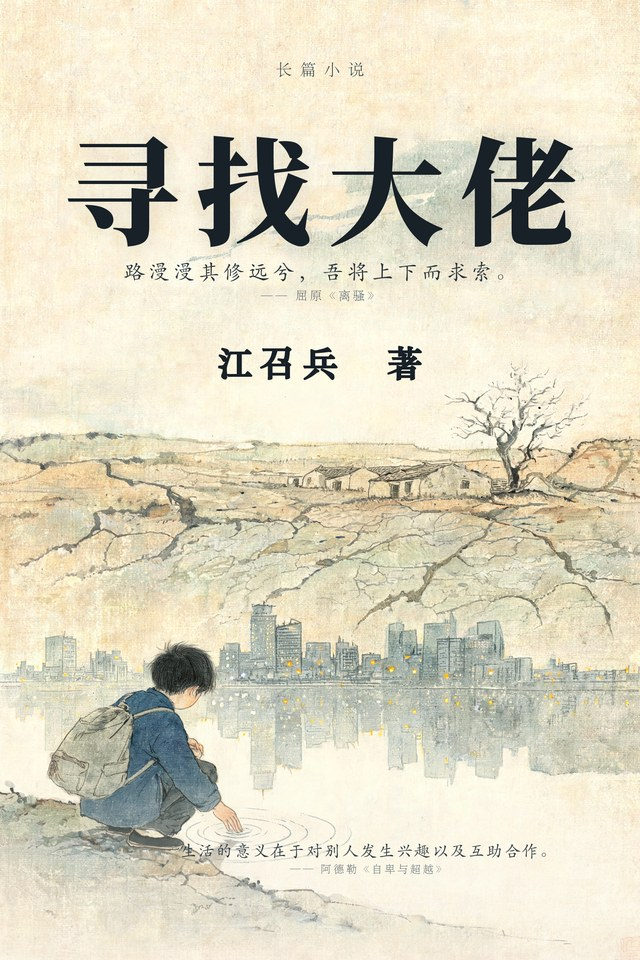
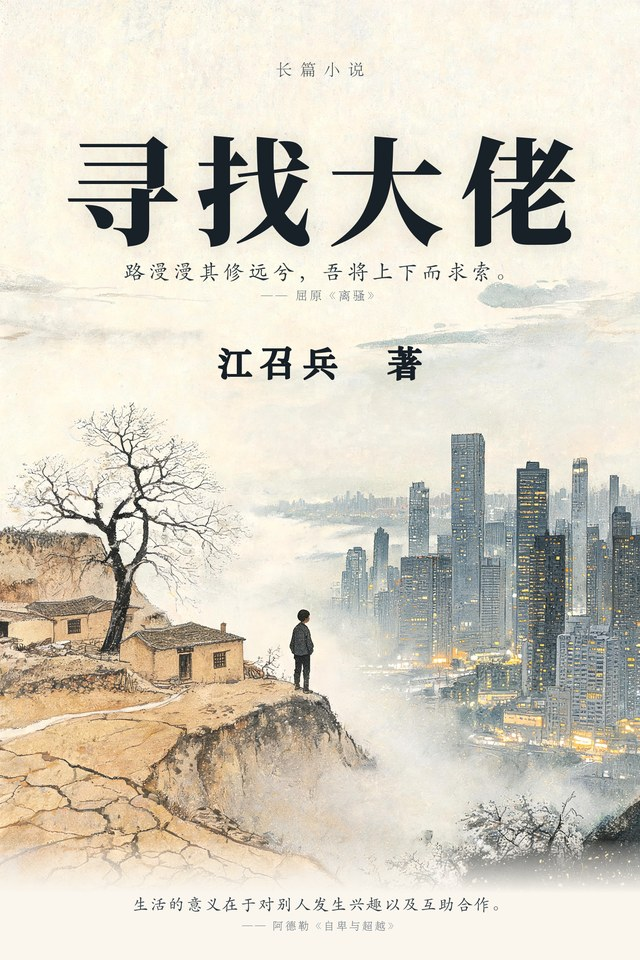
Cover: side-by-side village and city artwork, larger city, v5

diff --git a/books/xunzhaodalao/read.html b/books/xunzhaodalao/read.html
@@ -17,7 +17,7 @@
 <meta property="og:url" content="https://ZhaobingJiang.github.io/books/xunzhaodalao/read.html">
 <meta property="og:title" content="寻找大佬 · 全文在线阅读">
 <meta property="og:description" content="1989—2026，从陈家坳到MIT。五卷四十章，约三十五万字，全文在线阅读。">
-<meta property="og:image" content="https://ZhaobingJiang.github.io/books/xunzhaodalao/cover.jpg?v=4">
+<meta property="og:image" content="https://ZhaobingJiang.github.io/books/xunzhaodalao/cover.jpg?v=5">
 <meta name="twitter:card" content="summary_large_image">
 <script type="application/ld+json">
 {"@context":"https://schema.org","@type":"Book","name":"寻找大佬","url":"https://ZhaobingJiang.github.io/books/xunzhaodalao/","inLanguage":"zh-CN","bookFormat":"https://schema.org/EBook","author":{"@type":"Person","name":"江召兵","url":"https://ZhaobingJiang.github.io/"},"numberOfPages":40,"bookEdition":"网页版","isAccessibleForFree":true,"creativeWorkStatus":"全书完成"}
@@ -64,7 +64,7 @@
 
 <main class="reader">
   <div class="book-head">
-    <img class="web-cover" src="cover.jpg?v=4" alt="《寻找大佬》封面：江召兵著，长篇小说" width="1600" height="2400">
+    <img class="web-cover" src="cover.jpg?v=5" alt="《寻找大佬》封面：江召兵著，长篇小说" width="1600" height="2400">
     <h1 class="t">寻找大佬</h1>
     <div class="s">路漫漫其修远兮，吾将上下而求索。</div>
     <div class="a">江召兵　著</div>

diff --git a/books/xunzhaodalao/index.html b/books/xunzhaodalao/index.html
@@ -17,7 +17,7 @@
 <meta property="og:url" content="https://ZhaobingJiang.github.io/books/xunzhaodalao/">
 <meta property="og:title" content="寻找大佬 · 长篇小说">
 <meta property="og:description" content="1989—2026，从陈家坳到MIT。五卷四十章，约三十五万字，全书完成。">
-<meta property="og:image" content="https://ZhaobingJiang.github.io/books/xunzhaodalao/cover.jpg?v=4">
+<meta property="og:image" content="https://ZhaobingJiang.github.io/books/xunzhaodalao/cover.jpg?v=5">
 <meta name="twitter:card" content="summary_large_image">
 <script type="application/ld+json">
 {"@context":"https://schema.org","@graph":[
@@ -67,7 +67,7 @@
 
 <main class="landing">
   <section class="book-hero">
-    <img class="cover" src="cover.jpg?v=4" alt="《寻找大佬》封面：江召兵著，长篇小说，题记“路漫漫其修远兮，吾将上下而求索”" width="1600" height="2400">
+    <img class="cover" src="cover.jpg?v=5" alt="《寻找大佬》封面：江召兵著，长篇小说，题记“路漫漫其修远兮，吾将上下而求索”" width="1600" height="2400">
     <div>
       <h1>寻找大佬</h1>
       <p class="sub">路漫漫其修远兮，吾将上下而求索。</p>

diff --git a/scripts/build_xunzhaodalao_read.py b/scripts/build_xunzhaodalao_read.py
@@ -116,7 +116,7 @@ html_doc = f"""<!DOCTYPE html>
 <meta property="og:url" content="https://ZhaobingJiang.github.io/books/{SLUG}/read.html">
 <meta property="og:title" content="{TITLE} · 全文在线阅读">
 <meta property="og:description" content="1989—2026，从陈家坳到MIT。五卷四十章，{WORDS}，全文在线阅读。">
-<meta property="og:image" content="https://ZhaobingJiang.github.io/books/{SLUG}/cover.jpg?v=4">
+<meta property="og:image" content="https://ZhaobingJiang.github.io/books/{SLUG}/cover.jpg?v=5">
 <meta name="twitter:card" content="summary_large_image">
 <script type="application/ld+json">
 {{"@context":"https://schema.org","@type":"Book","name":"{TITLE}","url":"https://ZhaobingJiang.github.io/books/{SLUG}/","inLanguage":"zh-CN","bookFormat":"https://schema.org/EBook","author":{{"@type":"Person","name":"江召兵","url":"https://ZhaobingJiang.github.io/"}},"numberOfPages":40,"bookEdition":"网页版","isAccessibleForFree":true,"creativeWorkStatus":"全书完成"}}
@@ -163,7 +163,7 @@ html_doc = f"""<!DOCTYPE html>
 
 <main class="reader">
   <div class="book-head">
-    <img class="web-cover" src="cover.jpg?v=4" alt="《{TITLE}》封面：江召兵著，长篇小说" width="1600" height="2400">
+    <img class="web-cover" src="cover.jpg?v=5" alt="《{TITLE}》封面：江召兵著，长篇小说" width="1600" height="2400">
     <h1 class="t">寻找大佬</h1>
     <div class="s">{SUBTITLE}</div>
     <div class="a">江召兵　著</div>
